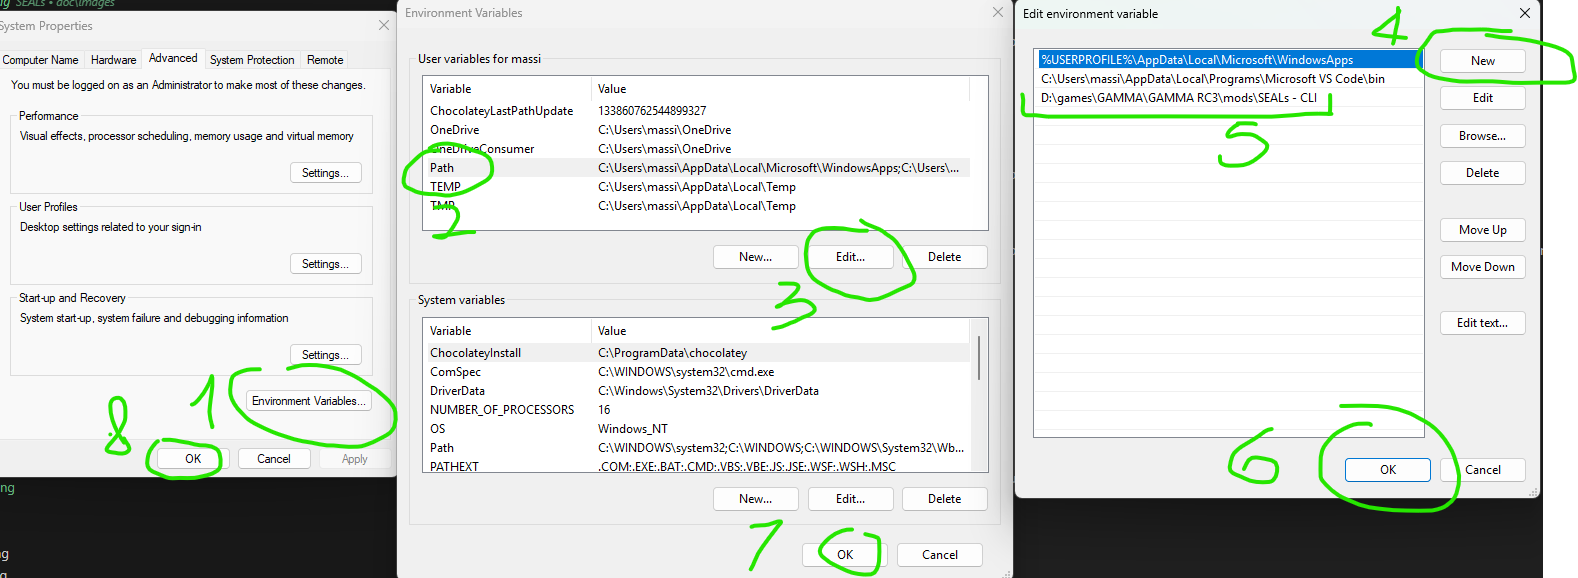
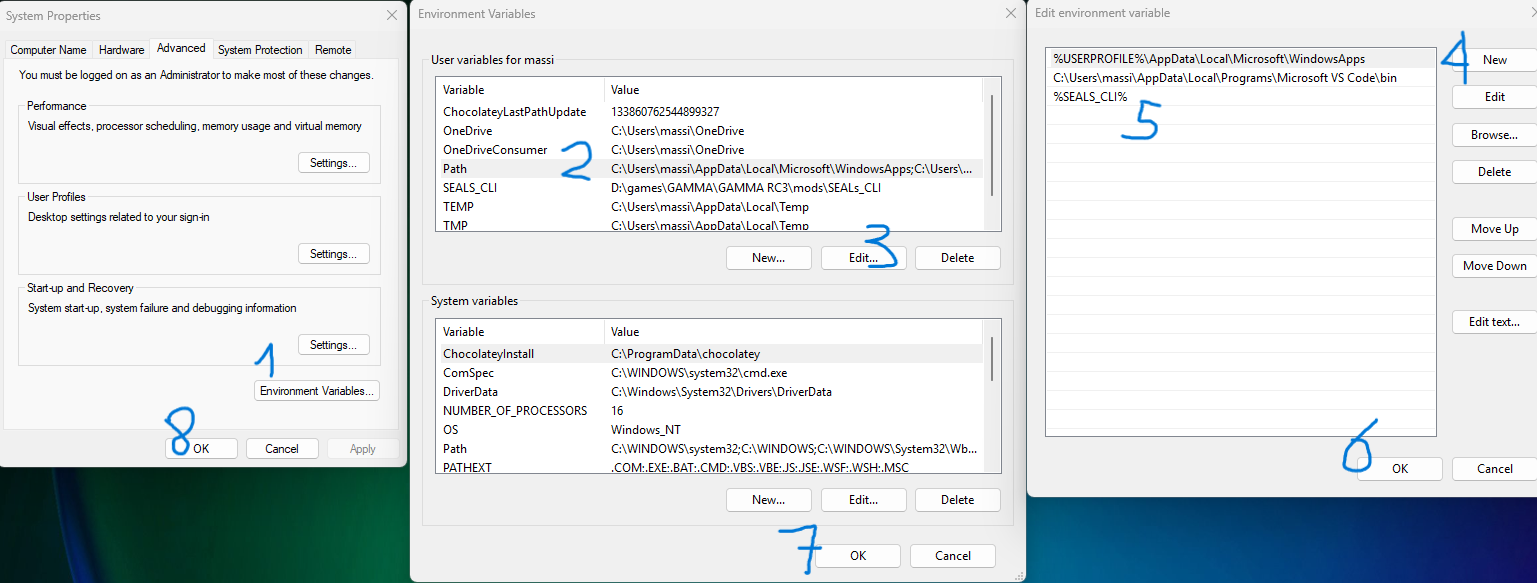
fixed seal home

diff --git a/README.md b/README.md
@@ -166,22 +166,27 @@ The **SEALs** main mod uses the ***group list*** from the configs modules to dis
 
 ## Installing CLI
 
-1) Install the `SEALs - CLI.zip` addon in **MO2**.
+1) Install the `SEALs_CLI.zip` addon in **MO2**.
 
 ![cli_mo2](doc/images/cli_mo2.png)
 
 >[!CAUTION]
-> the mod name it's important. It must be named `SEALs - CLI`
+> the mod name it's important. It must be named `SEALs_CLI`
+> you can use a different name but you must edit the default name in `CLI.ini`
 
 2) Open the *SEALs - CLI* mod folder in **MO2** and and copy in the clipboard the path to the folder.
 
 ![cli_folder](doc/images/cli_folder.png)
 
-3) Add this path to your *Windows environment variables*.
+3) Add this path as a new *Windows environment variable*.
+
+![cli_home](doc/images/cli_home.png)
+
+4) Add the **SEALS_CLI** to the PATH environment variable with `%SEALS_CLI%`
 
 ![env_var](doc/images/env_var.png)
 
-4) Create your first CLI MO2 executable shortcut - ***refresh***
+5) Create your first CLI MO2 executable shortcut - ***refresh***
 
 create this executable in MO2 and run it at least once against your modlist of reference. e.g. GAMMA, custom modlist, etc.
 
@@ -192,7 +197,7 @@ create this executable in MO2 and run it at least once against your modlist of r
 
 `-ExecutionPolicy Bypass -File "SEALs.ps1" -refresh`
 
-5) Select your profile in MO2 and run ***refresh*** to generate CLI base lists.
+6) Select your profile in MO2 and run ***refresh*** to generate CLI base lists.
 
 ![run_refresh](doc/images/run_refresh.png)
 
